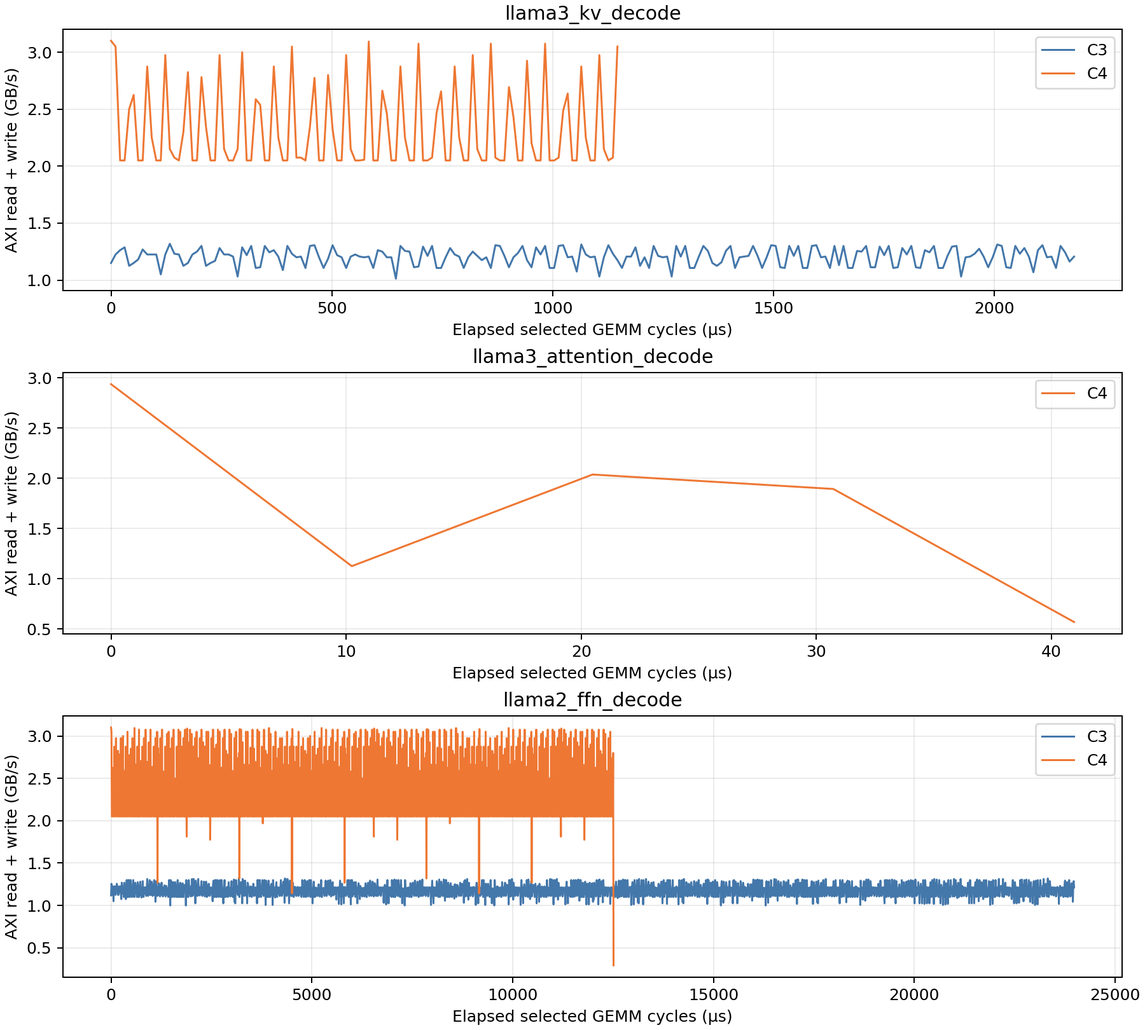
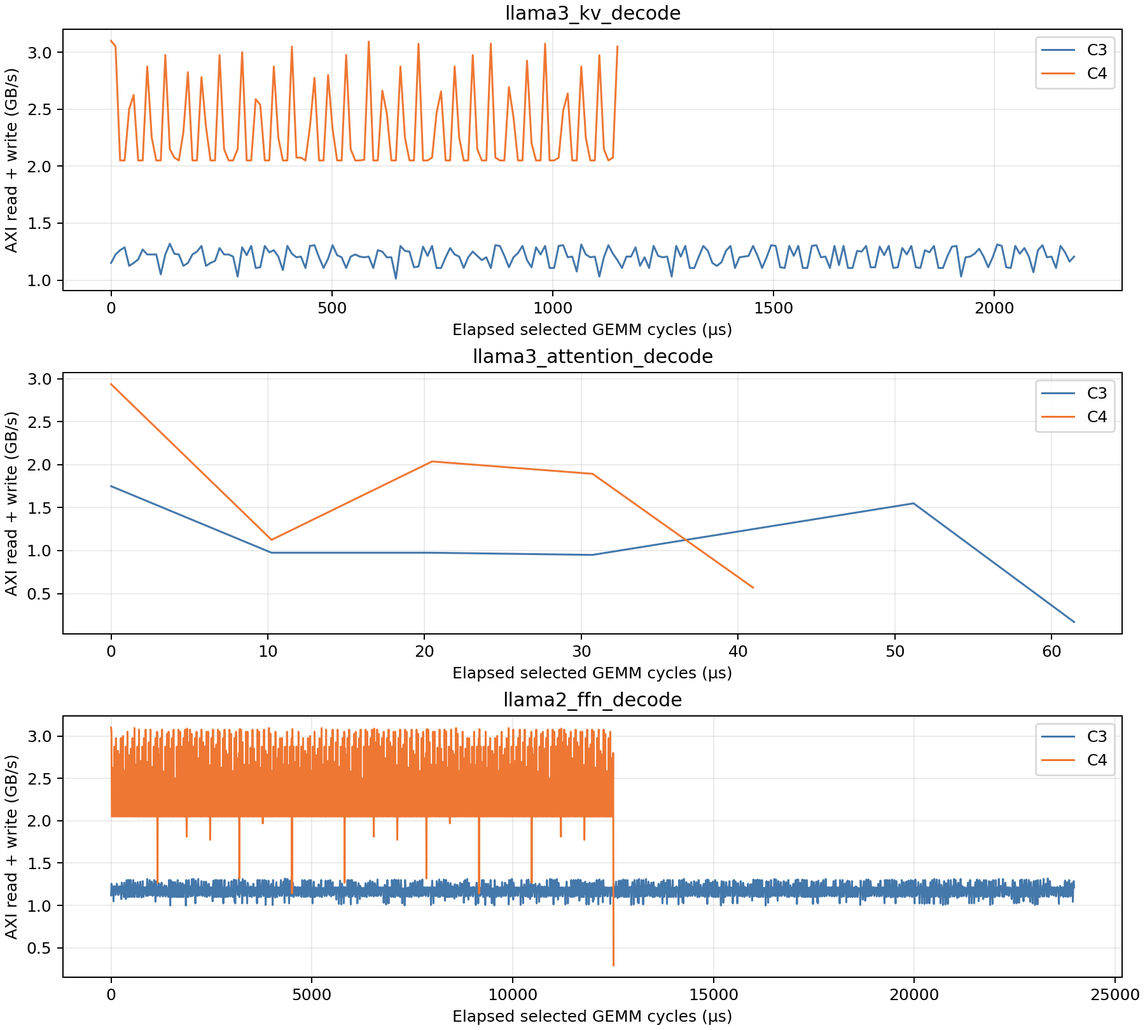
docs(latency): preserve rev6 attention results and projection analysis tools
Complete the eight-case C3/C4 baseline with the passing QBLK128 C3
attention measurement and preserve the QBLK16/32/64/128 validation summary.
Refresh compact CSV metrics, plots and provenance while retaining the
original failed-attempt history as local raw captures.

Add controlled M1/M4 projection cases, source fingerprints, input-count
checks, DMA/pipeline overlap accounting and conditional comparison plots.
The M4 projection experiment is still running at this snapshot; pending
results are not presented as completed measurements. Distinguish useful
MXU utilization from pipeline occupancy and uncalibrated simulated AXI
bandwidth from physical FPGA throughput.

Track reviewed reports, reproduction tools and compact provenance; ignore
the supplemental raw captures and full metric dump consistently with the
existing report policy. Add the naive metadata source as a simulator build
dependency to avoid stale RTL reuse.

Validation: Python syntax, JSON parsing and whitespace checks passed;
recorded eight-case results passed reference and counter-accounting checks.

diff --git a/analysis_workspace/latency/docs/perf_rev6/tools/render_results.py b/analysis_workspace/latency/docs/perf_rev6/tools/render_results.py
@@ -9,15 +9,15 @@ OUT=Path(__file__).resolve().parents[1]
 DOC=OUT.parent/'c3_c4_rev6_fine_grained_analysis.md'
 rows=json.loads((OUT/'measurements.json').read_text())
 by={r['key']:r for r in rows}
-order=['small','llama3_kv_decode','llama3_attention_decode','llama2_ffn_decode']
+order=['small','llama3_kv_decode','llama3_kv_decode_m4','llama3_attention_decode','llama2_ffn_decode','llama2_ffn_decode_m4']
 rows=sorted(rows,key=lambda r:(order.index(r['case']['id']),r['candidate']))
 def fmt(v):return f'{v:,.3f}' if isinstance(v,float) else f'{v:,}'
 def table(headers,body):
     return '| '+' | '.join(headers)+' |\n| '+' | '.join(['---']*len(headers))+' |\n'+''.join('| '+' | '.join(str(x) for x in line)+' |\n' for line in body)+'\n'
 def ratio(a,b):return a/b if b else 0.0
 s='## 측정 결과\n\n'
-s+=table(['case','backend','GEMM cycles','GEMM µs','core µs','input %','pipeline %','유효 GFLOP/s'],[[r['case']['id'],r['candidate'].upper(),fmt(r['gemm_cycles']),fmt(r['gemm_us']),fmt(r['core_us']),fmt(r['input_util_pct']),fmt(r['pipeline_util_pct']),fmt(r['useful_gflops'])] for r in rows])
-s+='모든 수치는 reference 검증에 통과한 실행만 포함한다. input %와 nominal 유효 peak %는 N/K가 16의 배수이면 같다. ragged attention에서는 padding 때문에 유효 peak %가 조금 더 낮다.\n\n'
+s+=table(['case','backend','GEMM cycles','GEMM µs','core µs','MXU 유효 util. %','input fire %','pipeline %','유효 GFLOP/s'],[[r['case']['id'],r['candidate'].upper(),fmt(r['gemm_cycles']),fmt(r['gemm_us']),fmt(r['core_us']),fmt(r['effective_peak_pct']),fmt(r['input_util_pct']),fmt(r['pipeline_util_pct']),fmt(r['useful_gflops'])] for r in rows])
+s+='MXU 유효 utilization은 `100 × 2MNK / (GEMM cycles × 512)`이며 논리 M/N/K만 사용하고 padding 연산을 제외한다. pipeline %는 nonempty 비율이며 이 utilization과 다르다. 모든 수치는 reference 검증에 통과한 실행만 포함한다. input %와 nominal 유효 peak %는 N/K가 16의 배수이면 같다. ragged attention에서는 padding 때문에 유효 peak %가 조금 더 낮다.\n\n'
 s+='### Weight 공급을 고려한 MXU 해석\n\n'
 body=[]
 for r in rows:
@@ -57,13 +57,58 @@ for r in rows:
 s+=table(['case/backend','DMA','rd B','wr B','active cycle sum','rd / active GB/s','src request stall','dst write stall'],body)
 s+='rd/active는 엔진·채널 activity의 합으로 나눈 endpoint 평균이며 HBM 전체 wall-clock bandwidth가 아니다. `lmem_dma_sz`는 scale DMA와 zero-point DMA 두 엔진의 **합**이다. 두 엔진이 동시에 활동하므로 active_cycles가 GEMM/core cycles보다 커질 수 있다. HBM-DMA 역시 4-channel active sum이고 runtime의 “8-channel” 문자열은 고정된 표시다. 실제 channel/port 수는 manifest의 4를 따른다.\n\n'
 s+='## 분석\n\n'
-for case in ['llama3_kv_decode','llama2_ffn_decode']:
+# Compare logical M=1 and M=4 without treating pipeline occupancy as MAC use.
+projection_pairs=['llama3_kv_decode','llama2_ffn_decode']
+complete_projection_comparison=all(c+'_'+w+suffix in by for w in projection_pairs for c in ['c3','c4'] for suffix in ['', '_m4'])
+if complete_projection_comparison:
+    s+='### Projection M=1 → M=4: 같은 workload 비교\n\n'
+    s+='두 shape 모두 QBLK=32, WTRANS=0, QDIR=0이고 실제 logical/target M은 4다. C4의 `padded to 8`은 DRAM 버퍼 예약이며 kernel/DMA target을 8로 바꾸지 않는다. host의 M=4 출력과 input handshake 수 `4 × (N/16) × (K/16)`를 검증해 M=8/16 실행을 배제했다. 비교 가능성의 소스·config·monitor·HBM model hash 검사는 [provenance](perf_rev6/provenance.json)에 기록한다. 기존 M=1 데이터는 같은 조건임을 확인한 경우에만 사용한다. 기본 test_vectors의 W/S/Z 생성은 M에 의존하지 않으므로 같은 generation=0에서 동일 weight·scale·zero-point를 사용하며, A의 첫 row도 같다. M=4는 입력 row를 추가한다.\n\n'
+    comparison=[]; changes=[];traffic=[]
+    for w in projection_pairs:
+        for m,suffix in [(1,''),(4,'_m4')]:
+            speed=by['c3_'+w+suffix]['gemm_cycles']/by['c4_'+w+suffix]['gemm_cycles']
+            for c in ['c3','c4']:
+                r=by[c+'_'+w+suffix]
+                comparison.append([w,m,c.upper(),fmt(r['gemm_cycles']),fmt(r['effective_peak_pct']),fmt(r['hbm_gemm_gbps']),fmt(r['dma_pipeline_overlap_pct']),fmt(speed)])
+                traffic.append([w,m,c.upper(),fmt(r['input_fire']),fmt(r['weight_fire']),fmt(r['hbm_gemm_rd_bytes']),fmt(r['hbm_gemm_wr_bytes']),fmt(r['lmem_physical']['rd_bytes'] if c=='c3' else r['tmem']['rd_bytes']),fmt(r['lmem_physical']['wr_bytes'] if c=='c3' else r['tmem']['wr_bytes']),fmt(r['useful_flops']/(r['hbm_gemm_rd_bytes']+r['hbm_gemm_wr_bytes']))])
+        for c in ['c3','c4']:
+            a=by[c+'_'+w]; b=by[c+'_'+w+'_m4']
+            bytes_a=a['hbm_gemm_rd_bytes']+a['hbm_gemm_wr_bytes'];bytes_b=b['hbm_gemm_rd_bytes']+b['hbm_gemm_wr_bytes']
+            changes.append([w,c.upper(),fmt(a['gemm_cycles']/b['gemm_cycles']),fmt(b['useful_gflops']/a['useful_gflops']),fmt(b['effective_peak_pct']/a['effective_peak_pct']),fmt(bytes_b/bytes_a),fmt(b['weight_fire']/a['weight_fire']),fmt(b['dma_pipeline_overlap_pct']-a['dma_pipeline_overlap_pct'])])
+    s+=table(['projection','M','backend','GEMM cycles','MXU 유효 util. %','GEMM AXI GB/s','DMA–pipeline overlap %','C4/C3 GEMM speedup'],comparison)
+    s+='MXU utilization은 `2MNK/(cycles×512)`다. overlap은 `overlap_dma_mxu/dma_union_active_cycles`이며 reset 이후 DMA-active 시간 중 pipeline-nonempty와 겹친 비율이다. DMA-active는 CPU/HBM/input/weight/scale-zero/output DMA busy의 OR이므로 동시 엔진은 cycle당 한 번만 센다. pipeline-nonempty는 MAC-active가 아니므로 overlap/occupancy를 array utilization으로 표시하지 않는다.\n\n'
+    s+=table(['projection','backend','M1/M4 latency speedup','M4/M1 useful throughput','M4/M1 MXU util.','M4/M1 AXI bytes','M4/M1 weight beats','overlap 변화 pp'],changes)
+    s+='latency speedup이 1 미만이면 M=4 한 invocation이 더 느린 것이다. throughput은 연산량 4배를 포함하므로 latency speedup과 구별한다. HBM bandwidth의 비율은 `AXI bytes 비율 × latency speedup`이어서 speedup의 독립적인 원인 증거가 아니다.\n\n'
+    s+=table(['projection','M','backend','input fire','weight beats','GEMM AXI read B','GEMM AXI write B','local physical read B','local physical write B','useful FLOPs / GEMM AXI B'],traffic)
+    s+='![Projection M1/M4 비교](perf_rev6/projection_m1_m4.png)\n\n'
+    for w in projection_pairs:
+        for c in ['c3','c4']:
+            a=by[c+'_'+w]; b=by[c+'_'+w+'_m4']
+            s+=f"{w} {c.upper()}: M=1→4에서 input fire {a['input_fire']:,}→{b['input_fire']:,}, weight beats {a['weight_fire']:,}→{b['weight_fire']:,}다. 4-beat weight tile 적재당 input fire가 {4*a['input_fire']/a['weight_fire']:.2f}→{4*b['input_fire']/b['weight_fire']:.2f}로 변해 관측한 weight 재사용 패턴을 나타낸다. GEMM cycles는 {a['gemm_cycles']:,}→{b['gemm_cycles']:,}, 유효 array utilization은 {a['effective_peak_pct']:.2f}%→{b['effective_peak_pct']:.2f}%, overlap은 {a['dma_pipeline_overlap_pct']:.2f}%→{b['dma_pipeline_overlap_pct']:.2f}%다.\n\n"
+    for w in projection_pairs:
+        a=by['c4_'+w]; b=by['c4_'+w+'_m4']
+        stage=[]
+        for name in ['lmem_dma_input','lmem_dma_weight','lmem_dma_sz','lmem_dma_output']:
+            x=a['raw'][name][0]['rd_bytes']; y=b['raw'][name][0]['rd_bytes']
+            stage.append(f"{name}: {x:,}→{y:,} B ({y/x:.2f}배)")
+        s+=w+' C4 local DMA read endpoint는 '+', '.join(stage)+'. 이는 input/output 공급량과 weight·S/Z 재사용을 분리해 보여주며, 외부 HBM의 물리 traffic으로 대체하지 않는다.\n\n'
+    s+='M 변경에는 입력/출력 storage 크기와 주소 배치 변화도 따른다. 예를 들어 C3 K/V의 weight_base는 M=1에서 0x12000, M=4에서 0x18000이다. 이로 인한 cache/bank/address 영향까지 분리하는 ablation은 하지 않았으므로, latency 변화 전체를 weight 재사용 하나의 인과 효과로 해석하지 않는다. 동일 weight beat로 더 많은 input fire를 처리했다는 관찰과 성능 변화는 구분한다.\n\n'
+    util_min=min(by[c+'_'+w+'_m4']['effective_peak_pct'] for w in projection_pairs for c in ['c3','c4'])
+    util_max=max(by[c+'_'+w+'_m4']['effective_peak_pct'] for w in projection_pairs for c in ['c3','c4'])
+    s+=f"M=4의 유효 array utilization 범위는 {util_min:.2f}–{util_max:.2f}%다. C3/C4 간 latency·공급 beat 처리율·overlap 비교는 공급 및 스케줄링 경로의 상대적 효율을 판단하는 근거이고, M=1→4는 동일 구현에서 weight를 재사용하는 workload 변화다. 후자를 공급 경로 RTL 개선으로 부르지 않는다. '높은 array utilization을 유지한다'는 주장은 이 유효 peak 비율 자체로 평가해야 하며 pipeline occupancy나 overlap 비율로 대신 입증할 수 없다. 구현을 바꾸는 ablation 없이 개별 공급 병목의 인과 기여를 확정하지 않는다. 미구현 stall counter의 0은 stall 부재의 증거가 아니다.\n\n"
+
+    c4_m1=[by['c4_'+w]['effective_peak_pct'] for w in projection_pairs]
+    c4_m4=[by['c4_'+w+'_m4']['effective_peak_pct'] for w in projection_pairs]
+    speedups=[by['c3_'+w+suffix]['gemm_cycles']/by['c4_'+w+suffix]['gemm_cycles'] for w in projection_pairs for suffix in ['', '_m4']]
+    verdict="C4의 상대적 공급·스케줄링 효율이 더 높다는 주장을 지지한다" if min(speedups)>1 else "C4의 상대적 공급·스케줄링 효율이 항상 더 높다는 주장을 지지하지 않는다"
+    s+=f"이 표본은 {verdict}(C4/C3 GEMM speedup {min(speedups):.3f}–{max(speedups):.3f}배; weight beat 처리율은 위 표에서 별도로 비교). 그러나 모든 조건에서 '높은 array utilization을 유지한다'는 일반화는 지지하지 않는다. C4의 유효 utilization은 M=1에서 {min(c4_m1):.2f}–{max(c4_m1):.2f}%, M=4에서 {min(c4_m4):.2f}–{max(c4_m4):.2f}%이며, 거의 100%인 DMA overlap을 MAC utilization으로 대체할 수 없다. M=4에서의 증가와 두 projection 간 일관성은 이 두 측정에 한정해 보고한다.\n\n"
+for case in ['llama3_kv_decode','llama3_attention_decode','llama2_ffn_decode']:
     a=by.get('c3_'+case);b=by.get('c4_'+case)
     if not a or not b:continue
     ac=a['raw']['core'][0];bc=b['raw']['core'][0]
     s+=f"### {case}\n\nC4는 C3 대비 GEMM 구간 {a['gemm_cycles']/b['gemm_cycles']:.3f}배, 전체 core 구간 {a['core_cycles']/b['core_cycles']:.3f}배 빠르다. 유효 throughput은 {a['useful_gflops']:.3f} → {b['useful_gflops']:.3f} GFLOP/s, MXU input utilization은 {a['input_util_pct']:.3f}% → {b['input_util_pct']:.3f}%다. 두 backend의 input fire는 각각 {a['input_fire']:,}/{b['input_fire']:,}로 유효 연산량 차이에 의한 속도 차이가 아니다.\n\n"
     s+=f"전체 core AXI traffic은 C3 {(a['hbm_core_rd_bytes']+a['hbm_core_wr_bytes'])/1e6:.3f} MB, C4 {(b['hbm_core_rd_bytes']+b['hbm_core_wr_bytes'])/1e6:.3f} MB다. C4의 이점은 주로 비슷한 데이터량을 더 짧은 시간에 처리하는 데 있다. GEMM window bandwidth 범위는 C3 {a['gemm_windows']['min']:.3f}–{a['gemm_windows']['max']:.3f}, C4 {b['gemm_windows']['min']:.3f}–{b['gemm_windows']['max']:.3f} GB/s다.\n\n"
-    s+=f"pipeline active 비율은 C3 {a['pipeline_util_pct']:.3f}%, C4 {b['pipeline_util_pct']:.3f}%이지만 input fire 비율은 훨씬 낮다. 특히 C4의 pipeline이 대부분의 시간 비어 있지 않아도 MAC peak utilization이 높다는 뜻은 아니다. DMA와 pipeline의 중첩 비율은 {100*ratio(ac['overlap_dma_mxu'],ac['dma_union_active_cycles']):.3f}% → {100*ratio(bc['overlap_dma_mxu'],bc['dma_union_active_cycles']):.3f}%로 증가한다. 수치들은 C4의 DMA 중첩과 공급 경로 개선에 부합하지만, 개별 stall의 원인을 독립적으로 분리하는 ablation을 하지 않았으므로 특정 bank conflict가 전체 속도 차이를 설명한다고 단정할 수 없다.\n\n"
+    s+=f"pipeline active 비율은 C3 {a['pipeline_util_pct']:.3f}%, C4 {b['pipeline_util_pct']:.3f}%이지만 input fire 비율은 훨씬 낮다. 특히 C4의 pipeline이 대부분의 시간 비어 있지 않아도 MAC peak utilization이 높다는 뜻은 아니다. DMA와 pipeline의 중첩 비율은 {100*ratio(ac['overlap_dma_mxu'],ac['dma_union_active_cycles']):.3f}% → {100*ratio(bc['overlap_dma_mxu'],bc['dma_union_active_cycles']):.3f}%로 변한다. 이 수치는 DMA 중첩과 공급 경로를 구분하는 단서지만, 개별 stall의 원인을 독립적으로 분리하는 ablation을 하지 않았으므로 특정 bank conflict가 전체 속도 차이를 설명한다고 단정할 수 없다.\n\n"
     ad=a['raw']['cpu_dma'][0];bd=b['raw']['hbm_dma.aggregate'][0]
     s+=f"C3 CPU-DMA source request stall은 {ad['src_rd_req_stall']:,} events이며 wait_dcache 카운터와 같다. C4 HBM-DMA는 source request stall {bd['src_rd_req_stall']:,}, destination write stall {bd['dst_wr_stall']:,} events다. 관찰 지점이 달라 단순 event-count 비율을 speedup의 원인으로 해석할 수는 없지만, C3의 D-cache 경유 공급과 C4의 TMEM 수용 경로를 구분하는 진단 지표가 된다. C3 CPU-DMA rd counter {ad['rd_bytes']:,} B와 실제 외부 AXI read {a['hbm_core_rd_bytes']:,} B도 같지 않아 DMA byte counter를 곧바로 HBM 물리 traffic으로 사용할 수 없다.\n\n"
     lm=a['lmem_physical'];tm=b['tmem']
@@ -76,17 +121,21 @@ if 'c4_llama2_ffn_decode' in by:
     active_bw=(h['rd_bytes']+h['wr_bytes'])*r['logic_hz']/ch['active_max']/1e9
     s+=f"C4 FFN의 bandwidth 최솟값 {r['gemm_windows']['min']:.3f} GB/s는 마지막 완전 window에서 측정됐으며 중앙값 {r['gemm_windows']['median']:.3f} GB/s와 크게 다르다. min/max는 시작·종료 및 window alignment에 민감하므로 평균·중앙값·time series를 함께 본다. 또한 HBM-DMA bytes/active_max로 계산하면 {active_bw:.3f} GB/s가 되지만 실제 GEMM 구간 평균은 {r['hbm_gemm_gbps']:.3f} GB/s다. active_max {ch['active_max']:,} cycles는 GEMM {r['gemm_cycles']:,} cycles 전체의 elapsed time이 아니므로 전자를 전체 bandwidth로 보고하면 과대평가한다.\n\n"
 s+='kernel-facing AXI의 config상 read capacity는 4 ports×64 B×100 MHz=25.6 GB/s이며 write도 별도 channel에서 같은 beat capacity를 가진다. 이것은 DRAM 실측 peak가 아니라 관찰 interface의 이론적 상한이다. 측정 bandwidth가 이 상한보다 낮다는 사실만으로 HBM 장치 자체가 포화되었다고 결론 낼 수 없다. DMA 의존성, D-cache 경유, TMEM 수용, quantization 및 accumulator 경로를 함께 확인해야 한다.\n\n'
-s+='### Attention 및 지원 범위\n\nC4의 실제 Llama3 attention shape `4×1025×128, QBLK=128, WTRANS=1`은 검증을 통과했다. C3는 GEMM 시작 시 `VX_gemm_fsm_naive_meta.sv:384`의 `unsupported dimensions/qblock/alignment` assertion으로 종료했다. 이 FSM은 QBLK register의 log2 값이 5(=32)인지 검사한다. 실제 suite의 QBLK=128은 현재 naive RTL의 지원 범위를 벗어난다. 실패 실행의 GEMM cycles=0을 성능값으로 사용하지 않았다. [실패 simv log](raw/c3_llama3_attention_decode.simv.log)에서 assertion을 확인할 수 있다. 이 shape를 두 backend에서 비교하려면 naive 지원 확장이 먼저 필요하며, QBLK를 임의로 바꾸면 원래 workload와 달라진다.\n\n'
+s+='### Attention 및 지원 범위\n\n'
+if 'c3_llama3_attention_decode' in by:
+    s+='실제 Llama3 attention shape `4×1025×128, QBLK=128, WTRANS=1, QDIR=0`은 C3와 C4 모두 reference 검증을 통과했다. C3의 최초 실패는 QBLK register를 log2=5(32)로 고정한 simulation assertion이었다. 2026-10-09에 허용 범위를 log2=4–7(16·32·64·128)로 넓힌 후 동일 shape를 `xrt-vcs-sim --perf 3`으로 다시 측정해 위 모든 표와 그림에 반영했다. 차원/alignment 검사는 유지했고 하드웨어 데이터 경로는 변경하지 않았다. 최초 실패 기록은 `perf_rev6/raw/attempts/c3_attention_qblk32_assertion_20261008/`에 보존하고 집계에서 제외했다. 작은 QBLK별 검증은 [별도 재실행 문서](perf_rev6/qblk_support_rerun_20261009/README.md)에 있다.\n\n'
+else:
+    s+='C3 attention의 passing capture가 아직 없어 비교에서 제외했다. 실패 로그를 지원 범위나 성능값으로 대체하지 않는다.\n\n'
 s+='## 검증과 재실행\n\n'
 s+='small 원래 perf-only 실행과 최종 관찰 실행의 GEMM cycle 및 host PERF core cycle가 각각 C3 773 / 8,870, C4 303 / 7,610으로 같았다. host PERF instr cycle(MCYCLE)은 C3 8,845, C4 7,585로 busy cycle와 구별된다. reference verification과 window 합계 invariant도 통과했다. raw core final cycles는 profiling epilogue까지 포함해 C3 10,497, C4 9,237이다.\n\n'
-s+='```bash\n# 프로젝트 root에서 최초 1회 준비; configure를 다시 하면 monitor 설정을 재추가해야 한다\npython3 analysis_workspace/latency/docs/perf_rev6/tools/setup_builds.py\npython3 analysis_workspace/latency/docs/perf_rev6/tools/run_cases.py --case small\npython3 analysis_workspace/latency/docs/perf_rev6/tools/run_cases.py --case llama3_kv_decode\npython3 analysis_workspace/latency/docs/perf_rev6/tools/run_cases.py --case llama2_ffn_decode --timeout 5400\n# C3 QBLK=128 제약 때문에 attention은 C4만 정상 실행 가능\npython3 analysis_workspace/latency/docs/perf_rev6/tools/run_cases.py --case llama3_attention_decode --candidate c4\npython3 analysis_workspace/latency/docs/perf_rev6/tools/analyze.py\n/home/jaeyongjang/.conda/envs/vortex/bin/python analysis_workspace/latency/docs/perf_rev6/tools/render_results.py\n```\n\n'
+s+='```bash\n# 프로젝트 root에서 최초 1회 준비; configure를 다시 하면 monitor 설정을 재추가해야 한다\npython3 analysis_workspace/latency/docs/perf_rev6/tools/setup_builds.py\npython3 analysis_workspace/latency/docs/perf_rev6/tools/run_cases.py --case small\npython3 analysis_workspace/latency/docs/perf_rev6/tools/run_cases.py --case llama3_kv_decode\npython3 analysis_workspace/latency/docs/perf_rev6/tools/run_cases.py --case llama2_ffn_decode --timeout 5400\npython3 analysis_workspace/latency/docs/perf_rev6/tools/run_cases.py --case llama3_attention_decode\npython3 analysis_workspace/latency/docs/perf_rev6/tools/run_cases.py --case llama3_kv_decode_m4 --case llama2_ffn_decode_m4 --timeout 7200\npython3 analysis_workspace/latency/docs/perf_rev6/tools/analyze.py\n/home/jaeyongjang/.conda/envs/vortex/bin/python analysis_workspace/latency/docs/perf_rev6/tools/render_results.py\n```\n\n'
 s+='full FFN의 초기 C4 실행은 VCS 진행 속도를 보고 timeout을 연장하기 위해 중단했다. 그 기록은 `raw/attempts/`에 있고 최종 분석에서는 제외한다. 각 정량 결과는 최종 단일 실행이며 실행 간 분산을 측정하지 않았다.\n\n'
 s+='## 추가로 유용한 계측\n\n1. input/weight/scale/zero 공급 ready/valid 원인별 stall 및 accumulator hazard의 실제 카운터를 채우면 pipeline-active와 input-fire 사이의 공백을 설명할 수 있다. 현재 perf의 0만으로는 원인을 분해할 수 없다.\n2. per-bank read/write hotspot과 per-port backpressure를 함께 보면 충돌이 특정 bank/address mapping에 집중되는지 확인할 수 있다. 이미 수집한 raw 자료에 포함되어 있다.\n3. useful FLOPs/AXI byte와 A/weight/scale read amplification은 데이터 재사용 효율을 표현한다. physical SRAM traffic과 DMA endpoint traffic을 구분해야 한다.\n4. prefill의 큰 M, generation batch 변화, QDIR=1, FFN down projection 등으로 확장하면 compute/memory balance가 달라지는 범위를 검증할 수 있다. 이번 측정은 해당 범위를 커버하지 않는다.\n'
 # Place figures near the measured tables.
 colors={'c3':'#4477AA','c4':'#EE7733'}
 actual=[c for c in order if c!='small' and any(r['case']['id']==c for r in rows)]
-fig,axes=plt.subplots(1,3,figsize=(13,4),layout='constrained')
-for ax,key,label in zip(axes,['gemm_us','input_util_pct','hbm_gemm_gbps'],['GEMM latency (µs)','MXU input fire / GEMM cycles (%)','AXI GEMM-phase bandwidth (GB/s)']):
+fig,axes=plt.subplots(1,3,figsize=(16,4.5),layout='constrained')
+for ax,key,label in zip(axes,['gemm_us','effective_peak_pct','hbm_gemm_gbps'],['GEMM latency (µs)','Effective MXU utilization (%)','AXI GEMM-phase bandwidth (GB/s)']):
     for c,shift in [('c3',-.18),('c4',.18)]:
         for i,case in enumerate(actual):
             r=by.get(c+'_'+case)
@@ -96,7 +145,7 @@ for ax,key,label in zip(axes,['gemm_us','input_util_pct','hbm_gemm_gbps'],['GEMM
 axes[0].set_yscale('log');axes[0].legend();
 for ax in axes:
     for i,case in enumerate(actual):
-        if 'c3_'+case not in by:ax.annotate('C3 unsupported' if case=='llama3_attention_decode' else 'C3 pending',(i-.18,0.04),xycoords=('data','axes fraction'),rotation=90,fontsize=8,ha='center')
+        if 'c3_'+case not in by:ax.annotate('C3 pending',(i-.18,0.04),xycoords=('data','axes fraction'),rotation=90,fontsize=8,ha='center')
 fig.savefig(OUT/'overview.png',dpi=180);fig.savefig(OUT/'overview.svg');plt.close(fig)
 fig,axes=plt.subplots(len(actual),1,figsize=(10,3*len(actual)),squeeze=False,layout='constrained')
 for ax,case in zip(axes[:,0],actual):
@@ -109,12 +158,29 @@ for ax,case in zip(axes[:,0],actual):
         ax.plot(x,y,lw=1.2,color=colors[c],label=c.upper())
     ax.set_title(case);ax.set_xlabel('Elapsed selected GEMM cycles (µs)');ax.set_ylabel('AXI read + write (GB/s)');ax.grid(alpha=.25);ax.legend()
 fig.savefig(OUT/'hbm_windows.png',dpi=180);fig.savefig(OUT/'hbm_windows.svg');plt.close(fig)
+if complete_projection_comparison:
+    fig,axes=plt.subplots(2,2,figsize=(13,8),layout='constrained')
+    groups=[(w,c) for w in projection_pairs for c in ['c3','c4']]
+    for ax,key,label in zip(axes.flat,['gemm_us','effective_peak_pct','hbm_gemm_gbps','dma_pipeline_overlap_pct'],['GEMM latency (µs)','Effective MXU utilization (%)','GEMM-phase AXI bandwidth (GB/s)','DMA–pipeline overlap (%)']):
+        for m,suffix,shift,color in [(1,'',-.18,'#4477AA'),(4,'_m4',.18,'#EE7733')]:
+            ax.bar([i+shift for i in range(len(groups))],[by[c+'_'+w+suffix][key] for w,c in groups],width=.34,label=f'M={m}',color=color)
+        ax.set_xticks(range(len(groups)),[('KV' if 'kv' in w else 'FFN')+' '+c.upper() for w,c in groups])
+        ax.set_ylabel(label);ax.grid(axis='y',alpha=.25);ax.set_axisbelow(True);ax.legend()
+        if key=='gemm_us':ax.set_yscale('log')
+    fig.savefig(OUT/'projection_m1_m4.png',dpi=180);fig.savefig(OUT/'projection_m1_m4.svg');plt.close(fig)
 s=s.replace('## 분석\n\n','![GEMM 성능 비교](perf_rev6/overview.png)\n\n![HBM 1024-cycle window bandwidth](perf_rev6/hbm_windows.png)\n\n## 분석\n\n')
 s=s.replace('(raw/c3_llama3_attention_decode.simv.log)','(perf_rev6/raw/c3_llama3_attention_decode.simv.log)')
 prefix=DOC.read_text().split('<!-- RESULTS -->')[0]
 prefix=re.sub(r'<!-- SUMMARY -->.*?<!-- /SUMMARY -->\n*','',prefix,flags=re.S)
 if all(key in by for key in ['c3_llama3_kv_decode','c4_llama3_kv_decode','c3_llama2_ffn_decode','c4_llama2_ffn_decode']):
-    summary="<!-- SUMMARY -->\n공통 projection에서 C4는 C3보다 GEMM 구간 기준 **Llama3 K/V 1.882배, Llama2 FFN 1.916배** 빠르다. GEMM 구간 HBM AXI 평균은 C3 **1.18–1.20 GB/s**, C4 **2.30–2.31 GB/s**, MXU input utilization은 C3 **7.34–7.46%**, C4 **14.04–14.06%**다. LMEM/TMEM의 물리 read/write byte 수는 같은 shape에서 동일해, 데이터량 감소보다 공급·중첩 경로의 처리 속도 차이가 두드러진다. 작은 검증 case를 포함한 7개 실행은 reference 검증을 통과했다. C3의 QBLK=128 attention은 현재 naive FSM 지원 범위 제한으로 실패해 성능 표에서 제외했다. HBM 모델은 uncalibrated이며 GB/s를 실측 hardware bandwidth로 해석하지 않는다.\n<!-- /SUMMARY -->\n\n"
+    summary=f"<!-- SUMMARY -->\nM=1 projection에서 C4는 C3보다 GEMM 구간 기준 **Llama3 K/V 1.882배, Llama2 FFN 1.916배** 빠르다. GEMM 구간 HBM AXI 평균은 C3 **1.18–1.20 GB/s**, C4 **2.30–2.31 GB/s**, MXU input utilization은 C3 **7.34–7.46%**, C4 **14.04–14.06%**다. K/V·FFN projection의 LMEM/TMEM 물리 read/write byte 수는 같은 shape에서 동일해, 데이터량 감소보다 공급·중첩 경로의 처리 속도 차이가 두드러진다. 작은 검증 case를 포함한 {len(rows)}개 실행은 reference 검증을 통과했다. HBM 모델은 uncalibrated이며 GB/s를 실측 hardware bandwidth로 해석하지 않는다.\n<!-- /SUMMARY -->\n\n"
+    if 'c3_llama3_attention_decode' in by and 'c4_llama3_attention_decode' in by:
+        a=by['c3_llama3_attention_decode']; b=by['c4_llama3_attention_decode']
+        summary=summary.replace('HBM 모델은',f"M4 attention도 C3를 보완 측정해 C4가 GEMM 구간 **{a['gemm_cycles']/b['gemm_cycles']:.3f}배** 빠름을 확인했다. HBM 모델은")
+    if complete_projection_comparison:
+        c3=[by['c3_'+w+'_m4']['effective_peak_pct'] for w in projection_pairs]
+        c4=[by['c4_'+w+'_m4']['effective_peak_pct'] for w in projection_pairs]
+        summary=summary.replace('HBM 모델은',f"M=4 projection의 유효 MXU utilization은 C3 **{min(c3):.2f}–{max(c3):.2f}%**, C4 **{min(c4):.2f}–{max(c4):.2f}%**이며 M1/M4 비교·traffic·overlap은 본문에 함께 제시한다. HBM 모델은")
     prefix=prefix.replace('## 측정 조건과 재현 자료',summary+'## 측정 조건과 재현 자료')
 DOC.write_text(prefix+'<!-- RESULTS -->\n'+s)
 print('Rendered',len(rows),'passing cases into',DOC)

diff --git a/analysis_workspace/latency/docs/perf_rev6/tools/analyze.py b/analysis_workspace/latency/docs/perf_rev6/tools/analyze.py
@@ -45,6 +45,19 @@ def main():
             core_windows=stats(g.get('WINDOW',[]),hz),gemm_windows=stats(g.get('GEMM_WINDOW',[]),hz),
             lmem_physical=g['LMEM_PHYSICAL'][0],lmem_perf=g['lmem'][0],
             tmem={k:sum(x[k] for x in g.get('TMEM',[])) for k in ['rd_bytes','wr_bytes','collision_cycles','collision_denied','blocked']})
+        row.update(weight_fire=mx['weight_fire'],
+            dma_union_active_cycles=core['dma_union_active_cycles'],
+            overlap_dma_pipeline_cycles=core['overlap_dma_mxu'],
+            dma_pipeline_overlap_pct=100*ratio(core['overlap_dma_mxu'],core['dma_union_active_cycles']))
+        assert core['overlap_dma_mxu'] <= core['dma_union_active_cycles']
+        if case['id'].endswith('_m4'):
+            assert case['m']==4 and case['q']==32 and case['t']==0 and case['d']==0
+            assert peak==512
+            # For these aligned, single-core shapes the accepted input rows
+            # distinguish real M=4 from execution rounded to M=8 or M=16.
+            assert mx['input_fire']==4*(case['n']//16)*(case['k']//16), (key,'real M=4 input count')
+            headers=[line for line in (OUT/'raw'/f'{key}.log').open() if line.startswith('M=')]
+            assert len(headers)==1 and headers[0].startswith('M=4'), (key,'host M=4')
         for main,window,tail in [('AXI','WINDOW','WINDOW_TAIL'),('GEMM_AXI','GEMM_WINDOW','GEMM_WINDOW_TAIL')]:
             parts=g.get(window,[])+g.get(tail,[])
             for field in ['cycles','rd_bytes','wr_bytes']:
@@ -61,7 +74,7 @@ def main():
         assert mx['input_fire']>0 and useful>0
         data.append(row)
     (OUT/'measurements.json').write_text(json.dumps(data,indent=2))
-    columns=['key','gemm_cycles','core_cycles','gemm_us','core_us','input_fire','input_util_pct','pipeline_util_pct','useful_gflops','effective_peak_pct','hbm_core_gbps','hbm_gemm_gbps','hbm_core_rd_bytes','hbm_core_wr_bytes','hbm_gemm_rd_bytes','hbm_gemm_wr_bytes']
+    columns=['key','gemm_cycles','core_cycles','gemm_us','core_us','input_fire','input_util_pct','pipeline_util_pct','useful_gflops','effective_peak_pct','hbm_core_gbps','hbm_gemm_gbps','hbm_core_rd_bytes','hbm_core_wr_bytes','hbm_gemm_rd_bytes','hbm_gemm_wr_bytes','weight_fire','dma_union_active_cycles','overlap_dma_pipeline_cycles','dma_pipeline_overlap_pct']
     with (OUT/'measurements.csv').open('w') as stream:
         writer=csv.DictWriter(stream,fieldnames=columns,lineterminator='\n');writer.writeheader();writer.writerows({k:r[k] for k in columns} for r in data)
     print('parsed and validated',len(data),'cases')

diff --git a/analysis_workspace/latency/docs/perf_rev6/tools/run_cases.py b/analysis_workspace/latency/docs/perf_rev6/tools/run_cases.py
@@ -10,6 +10,8 @@ CASES = [
     dict(id="llama3_kv_decode",m=1,n=1024,k=4096,q=32,t=0,d=0),
     dict(id="llama3_attention_decode",m=4,n=1025,k=128,q=128,t=1,d=0),
     dict(id="llama2_ffn_decode",m=1,n=11008,k=4096,q=32,t=0,d=0),
+    dict(id="llama3_kv_decode_m4",m=4,n=1024,k=4096,q=32,t=0,d=0),
+    dict(id="llama2_ffn_decode_m4",m=4,n=11008,k=4096,q=32,t=0,d=0),
 ]
 CONFIGS = {"c3":"naive_th16_tcol16_m16_L16_bigmem_all_bram_acc_base_pnr_v3", "c4":"improve_th16_tcol16_m16_t8_bigmem_all_bram_spread_v4_nodsp"}
 def digest(p): return hashlib.sha256(p.read_bytes()).hexdigest()
@@ -21,6 +23,13 @@ def run(candidate):
         args=" ".join(f"-{x} {case[x]}" for x in ['m','n','k','q','t','d'])
         cmd=f"source ../configs/{CONFIGS[candidate]}.sh\nexport CC=/usr/bin/gcc CXX=/usr/bin/g++\ntimeout {TIMEOUT} ci/run_black.sh xrt-vcs-sim --app {app} --args '{args}' --perf 3 --configs-extra '-DDISABLE_FSDB'"
         record=dict(candidate=candidate,case=case,app=app,command=cmd,started=datetime.datetime.now().isoformat(),status="running",config_sha256=digest(ROOT/f"configs/{CONFIGS[candidate]}.sh"),monitor_sha256=digest(OUT/'tools/fine_monitor.sv'))
+        record['source_head']=subprocess.check_output(['git','rev-parse','HEAD'],cwd=ROOT,text=True).strip()
+        record['source_sha256']={str(p.relative_to(ROOT)):digest(p) for p in [
+            ROOT/'hw/rtl/core/gemm/VX_gemm_fsm_naive_meta.sv',
+            ROOT/'hw/rtl/core/gemm/VX_gemm_compute_core.sv',
+            ROOT/f'tests/regression/{app}/main.cpp',
+            ROOT/f'tests/regression/{app}/kernel.cpp',
+            ROOT/'tests/regression/fpint_gemm_ffn_hw/test_vectors.h']}
         status=OUT/'raw'/f"{key}.json"
         status.write_text(json.dumps(record,indent=2))
         print(f"START {key}",flush=True)

diff --git a/analysis_workspace/latency/docs/perf_rev6/tools/progress.py b/analysis_workspace/latency/docs/perf_rev6/tools/progress.py
@@ -1,11 +1,14 @@
 #!/usr/bin/env python3
-import datetime,json
+import argparse,datetime,json
 from pathlib import Path
 ROOT=Path(__file__).resolve().parents[5]
 OUT=Path(__file__).resolve().parents[1]
 rows=json.loads((OUT/'measurements.json').read_text())
+parser=argparse.ArgumentParser()
+parser.add_argument('--case',default='llama2_ffn_decode')
+options=parser.parse_args()
 for candidate in ['c3','c4']:
-    p=OUT/f'raw/{candidate}_llama2_ffn_decode.json'
+    p=OUT/f'raw/{candidate}_{options.case}.json'
     if not p.exists():continue
     d=json.loads(p.read_text())
     elapsed=(datetime.datetime.now()-datetime.datetime.fromisoformat(d['started'])).total_seconds()
@@ -16,6 +19,7 @@ for candidate in ['c3','c4']:
         for line in f:
             if line.startswith('FINE GEMM_WINDOW index='):
                 cycles=(int(line.split('index=')[1].split()[0])+1)*1024
-    baseline=next(r for r in rows if r['key']==candidate+'_llama3_kv_decode')
-    estimate=baseline['gemm_cycles']*11008/1024
+    suffix='_m4' if options.case.endswith('_m4') else ''
+    baseline=next(r for r in rows if r['key']==candidate+'_llama3_kv_decode'+suffix)
+    estimate=baseline['gemm_cycles']*d['case']['n']/baseline['case']['n']
     print(candidate.upper(),'FFN',format(cycles,','),'cycles',f'{100*cycles/estimate:.1f}% of KV-scaled cycle estimate',round(elapsed),'s elapsed')

diff --git a/analysis_workspace/latency/docs/perf_rev6/tools/setup_builds.py b/analysis_workspace/latency/docs/perf_rev6/tools/setup_builds.py
@@ -13,5 +13,7 @@ for candidate in ['c3','c4']:
     text+='\n# Passive analysis-only monitor; no source RTL changes.\n'
     text+='RTL_PKGS += '+str(MONITOR)+'\n'
     text+='$(DESTDIR)/simv: '+str(MONITOR)+'\n'
+    if candidate == 'c3':
+        text+='$(DESTDIR)/simv: '+str(ROOT/'hw/rtl/core/gemm/VX_gemm_fsm_naive_meta.sv')+'\n'
     makefile.write_text(text)
     print('Configured',build)

diff --git a/analysis_workspace/latency/docs/perf_rev6/README.md b/analysis_workspace/latency/docs/perf_rev6/README.md
@@ -1,0 +1,58 @@
+# rev6 C3/C4 fine-grained 측정 자료
+
+2026-10-09 갱신. 네 workload의 C3/C4 조합 **8개 모두 reference 검증을 통과**했다. 기존에 누락됐던 C3 M4 attention을 `xrt-vcs-sim --perf 3`으로 보완 측정해 표·그림·CSV에 포함했다.
+
+[전체 분석](../c3_c4_rev6_fine_grained_analysis.md) · [QBLK 16/32/64/128 검증](qblk_support_rerun_20261009/README.md)
+
+## 실행 범위
+
+| workload | M × N × K | QBLK / WTRANS / QDIR | C3 | C4 |
+|---|---|---|---|---|
+| small | 16 × 32 × 32 | 32 / 0 / 0 | PASSED | PASSED |
+| llama3_kv_decode | 1 × 1024 × 4096 | 32 / 0 / 0 | PASSED | PASSED |
+| llama3_attention_decode | 4 × 1025 × 128 | 128 / 1 / 0 | PASSED | PASSED |
+| llama2_ffn_decode | 1 × 11008 × 4096 | 32 / 0 / 0 | PASSED | PASSED |
+
+## 보완된 M4 attention 결과
+
+| 지표 | C3 naive | C4 improve |
+|---|---:|---:|
+| GEMM cycles | 7,596.000 | 5,324.000 |
+| GEMM 시간 | 75.960 µs | 53.240 µs |
+| 전체 core 시간 | 174.670 µs | 143.300 µs |
+| MXU input utilization | 27.383% | 39.068% |
+| pipeline active | 76.435% | 71.112% |
+| GEMM AXI 평균 | 1.041 GB/s | 1.659 GB/s |
+| GEMM window min | 0.169 GB/s | 0.569 GB/s |
+| GEMM window max | 1.750 GB/s | 2.938 GB/s |
+| GEMM window mean | 1.088 GB/s | 1.712 GB/s |
+| GEMM window median | 0.975 GB/s | 1.894 GB/s |
+| local memory read | 174,624 B | 174,720 B |
+| local memory write | 87,744 B | 88,320 B |
+| collision event | 6,798 LMEM bank_stalls | 712 denied requester |
+
+C4는 M4 attention에서 GEMM 구간 1.427배, 전체 core 구간 1.219배 빠르다. bank collision 수는 backend마다 단위와 관찰 지점이 달라 직접 비율 비교하지 않는다. GEMM window는 1,024 cycles이며 tail은 min/max/mean/median에서 제외한다. bandwidth는 uncalibrated VCS 모델의 관찰값이다.
+
+## 자료 구성
+
+- `measurements.csv`: 현재 8개 passing 실행의 주요 지표.
+- `measurements.json`: 전체 카운터, per-port/per-bank 및 window 통계(로컬 생성 자료).
+- `overview.png`, `hbm_windows.png`: C3 attention을 포함한 최신 비교 그림.
+- `raw/c3_llama3_attention_decode.{json,log,simv.log,model.json}`: 이번 보완 실행 명령·검증 로그·계측·모델.
+- `raw/attempts/c3_attention_qblk32_assertion_20261008/`: 최초 assertion 실패 기록. 분석에서는 제외.
+- `qblk_support_rerun_20261009/`: 앞선 QBLK별 검증과 M4 재실행 기록. 현재 전체 분석에는 이번 `raw/`의 보완 실행을 사용한다.
+- `provenance.json`: 최초 측정 이력과 C3 보완 측정 이력을 구분해 보존.
+
+## 재현
+
+프로젝트 root에서 configured build와 monitor가 준비된 상태로:
+
+```bash
+python3 analysis_workspace/latency/docs/perf_rev6/tools/run_cases.py --candidate c3 --case llama3_attention_decode --timeout 1800
+python3 analysis_workspace/latency/docs/perf_rev6/tools/analyze.py
+/home/jaeyongjang/.conda/envs/vortex/bin/python analysis_workspace/latency/docs/perf_rev6/tools/render_results.py
+```
+
+`tools/setup_builds.py`는 build를 configure하고 passive monitor 및 naive FSM source의 simv dependency를 추가한다. 처음 준비할 때 사용한다. 실행 스크립트는 각 build에서 rev6 config를 source하고 `ci/run_black.sh xrt-vcs-sim --perf 3`을 호출한다. 정답 검증과 AXI/window/cycle/local-memory accounting 검사가 모두 통과한 자료만 집계한다.
+
+기존 FFN 두 실행은 당시 controller 종료 상태를 복구할 수 없어 returncode가 null이며, reference `PASSED`와 정상 simulator SHUTDOWN 기록으로 통과를 확인했다. 이번 C3 attention 보완 실행은 returncode=0을 직접 확보했다.

diff --git a/analysis_workspace/latency/docs/perf_rev6/qblk_support_rerun_20261009/README.md b/analysis_workspace/latency/docs/perf_rev6/qblk_support_rerun_20261009/README.md
@@ -1,0 +1,39 @@
+# C3 QBLK assertion 확장 및 M4 재실행
+
+실행일: 2026-10-09. rev6 C3 설정, `fpint_gemm_ffn_hw_naive`, `xrt-vcs-sim --perf 3`. 다섯 case 모두 returncode=0 및 CPU reference 검증 `PASSED`.
+
+## 변경
+
+`hw/rtl/core/gemm/VX_gemm_fsm_naive_meta.sv`의 QBLK 검사만 `log2(QBLK)==5`에서 `4 <= log2(QBLK) <= 7`로 변경했다. 허용 값은 16, 32, 64, 128이다. 차원 및 alignment 검사는 유지했다. 기존 데이터 경로의 qlog 기반 주소 계산은 변경하지 않았다. 변경 부분은 `GEMM_NAIVE` 및 `ifndef SYNTHESIS` 내부라 improve 선택 RTL과 합성 하드웨어 로직에 변화가 없다. improve 재실행이나 PnR은 수행하지 않았다.
+
+## 결과
+
+| case | M × N × K | QBLK | WTRANS / QDIR | 결과 | GEMM cycles | GEMM µs | MXU input util. | GEMM AXI GB/s |
+|---|---|---:|---|---|---:|---:|---:|---:|
+| small_q16 | 16 × 32 × 128 | 16 | 0 / 0 | PASSED | 1,327 | 13.27 | 19.29% | 0.608 |
+| small_q32 | 16 × 32 × 128 | 32 | 0 / 0 | PASSED | 1,302 | 13.02 | 19.66% | 0.580 |
+| small_q64 | 16 × 32 × 128 | 64 | 0 / 0 | PASSED | 1,292 | 12.92 | 19.81% | 0.565 |
+| small_q128 | 16 × 32 × 128 | 128 | 0 / 0 | PASSED | 1,282 | 12.82 | 19.97% | 0.559 |
+| llama3_attention_decode | 4 × 1025 × 128 | 128 | 1 / 0 | PASSED | 7,596 | 75.96 | 27.38% | 1.041 |
+
+M4 case는 기존과 같은 실제 attention shape이며 QBLK를 바꾸지 않았다. assertion 완화만으로 정답 검증까지 통과했으므로, 이 shape의 기존 실패 원인은 QBLK=32로 고정된 assertion이었다. 네 QBLK의 작은 case 및 QBLK=128의 실제 attention case를 검증했으며, 모든 layout·QDIR 조합을 검증한 결과는 아니다.
+
+시간 환산은 모델의 logic clock 100 MHz 기준이다. MXU utilization은 input handshake / GEMM cycles이다. AXI GB/s는 uncalibrated 시뮬레이션 모델의 관찰값이며 FPGA 실측이 아니다. passive monitor의 cycle 및 byte accounting 검사도 다섯 case 모두 통과했다.
+
+## 재현
+
+configured build `build_latency_perf_c3_rev6`에서:
+
+```bash
+source ../configs/naive_th16_tcol16_m16_L16_bigmem_all_bram_acc_base_pnr_v3.sh
+export CC=/usr/bin/gcc CXX=/usr/bin/g++
+timeout 1800 ci/run_black.sh xrt-vcs-sim --app fpint_gemm_ffn_hw_naive --args '-m 4 -n 1025 -k 128 -q 128 -t 1 -d 0' --perf 3 --configs-extra '-DDISABLE_FSDB'
+```
+
+작은 case는 `-m 16 -n 32 -k 128 -q {16,32,64,128} -t 0 -d 0`으로 실행했다. build Makefile에 수정한 FSM을 simv prerequisite로 추가해 RTL 재빌드를 보장했다. 최초 수정 전 바이너리 재사용 실패는 `raw/stale_binary_attempt/`에 별도로 보존했고 결과 표에는 포함하지 않았다.
+
+원래 2026-10-08 C3 assertion 실패는 상위 `raw/attempts/c3_attention_qblk32_assertion_20261008/`에 보존했다. 상위 `raw/c3_llama3_attention_decode.*`는 이후 보완 측정으로 갱신했으며, [전체 분석](../../c3_c4_rev6_fine_grained_analysis.md)과 [현재 전체 자료](../README.md)의 모든 표·그림에 C3 attention을 포함했다. 이번 실행의 로그·실행 명령·모델 manifest는 `raw/`, 계측값은 `measurements.json`과 `measurements.csv`에 저장했다.
+
+## 전체 분석 반영
+
+2026-10-09 C3 attention을 같은 조건으로 다시 실행해 GEMM 7,596 cycles 및 정답 검증 통과를 재확인했다. 이 문서의 최초 재실행 데이터는 그대로 보존하고 전체 8-case 집계에는 상위 `raw/`의 최신 실행을 사용한다. HBM min/max/mean/median, MXU·pipeline utilization, LMEM read/write·bank conflict, DMA stage bandwidth·중첩 정보는 전체 분석 본문에 채웠다.
